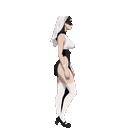
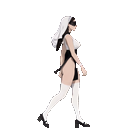
assets(violet): 走六帧按交付单§8 整体替换 + 图集重打
旧六帧取自一段退化生成（约第18帧后腿并成一条、脚消失），f/d 直接缺腿
缺鞋，且那段只含一个「出腿→并脚」，凑不出六拍。

改用正侧真实行走驱动重跑，按站距极值取帧：
  a←raw13  e←raw16  b←raw19  c←raw24  f←raw27  d←raw30

规格：128×128 / alpha 二值 / 脚底 y=127 / 内容高 112 / 最小边距 16px
两拍成立：脚区跨度 55·47·16 ‖ 55·53·23

其余帧（idle / -v / -walk-s / skill-a / skill-b）未动。
图集元数据零变更：characters.json / pivots.json / report.json 与前一版逐字
相同，122 帧坐标无变化；非 walk 帧像素变化 0 帧。

交付单同批更新：ta-handoff-128-violet-v1.md §8

diff --git a/design/art-bible/ta-handoff-128-violet-v1.md b/design/art-bible/ta-handoff-128-violet-v1.md
@@ -102,3 +102,26 @@
 | `xw_cross` | **圣辉轮刃** | 圣辉十字 / 圣十字 |
 
 > 已回改：`ui-redesign-artist-supplement-v1.md`、`ui-frame-freeze-c1-c3-v1.md`、`exclusive.ts` 里 `mc_cross_2` 的描述（"三枚十字"→"三枚轮刃"）。
+
+
+---
+
+## 8. 走帧修订（2026-11-17）
+
+走六帧**已整体替换**，其余（idle / `-v` / `-walk-s` / 两个技能）**未动**。
+
+| 槽 | 原来源 | 新来源 |
+|---|---|---|
+| `-walk-a` | 旧 03 帧 | raw 13（大步，一条腿前伸） |
+| `-walk-e` | 旧 07 | raw 16（过渡） |
+| `-walk-b` | 旧 11 | raw 19（**并脚**，经过位） |
+| `-walk-c` | 旧 15 | raw 24（大步，**另一条腿**前伸） |
+| `-walk-f` | 旧 19（缺一只鞋） | raw 27（过渡） |
+| `-walk-d` | 旧 23（小腿被裁） | raw 30（**并脚**，经过位） |
+
+**为什么要换**：旧六帧取自一段**退化**的生成（约第 18 帧后腿并成一条、脚消失），其中 `f`/`d` 直接缺腿缺鞋；且那一段只含**一个**「出腿→并脚」，凑不出六拍。
+
+**新六帧**：改用正侧真实行走驱动（`One_continuous_unbroken_take___2026-10-22T03-26-05.mp4`）重跑，
+按站距极值取帧（一步约 11 帧）。八项规格复核全部通过：128×128、脚底 127、内容高 112。
+
+**播放速度不变**：仍为角色级 **~155ms/帧**，顺序 `a→e→b→c→f→d`。
